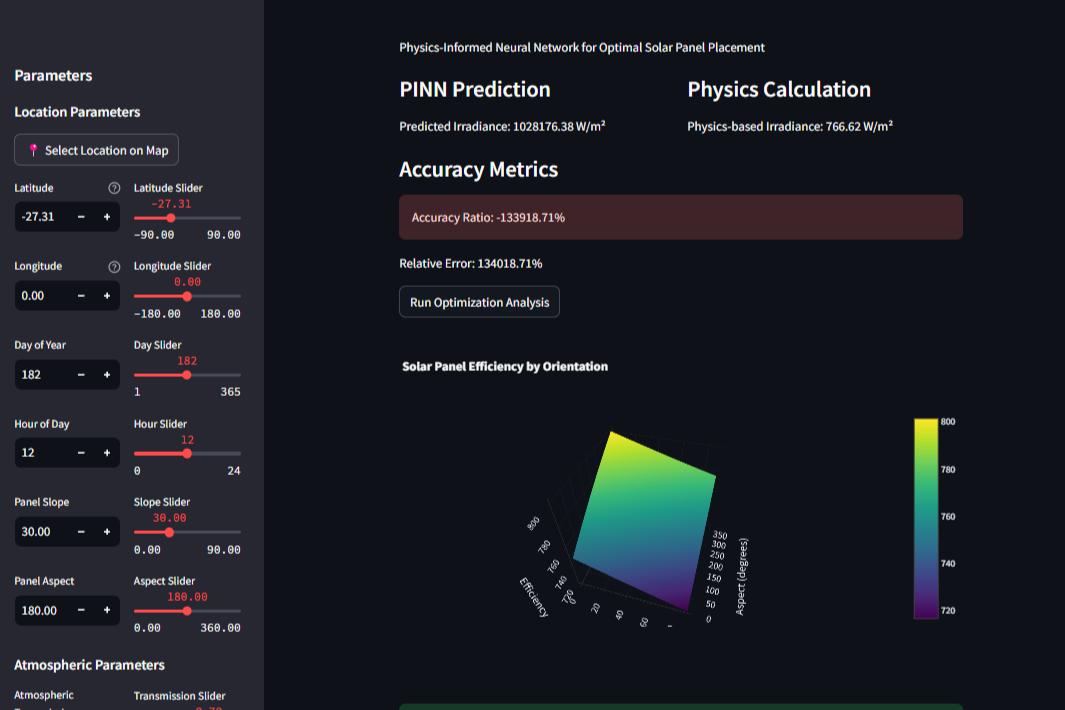
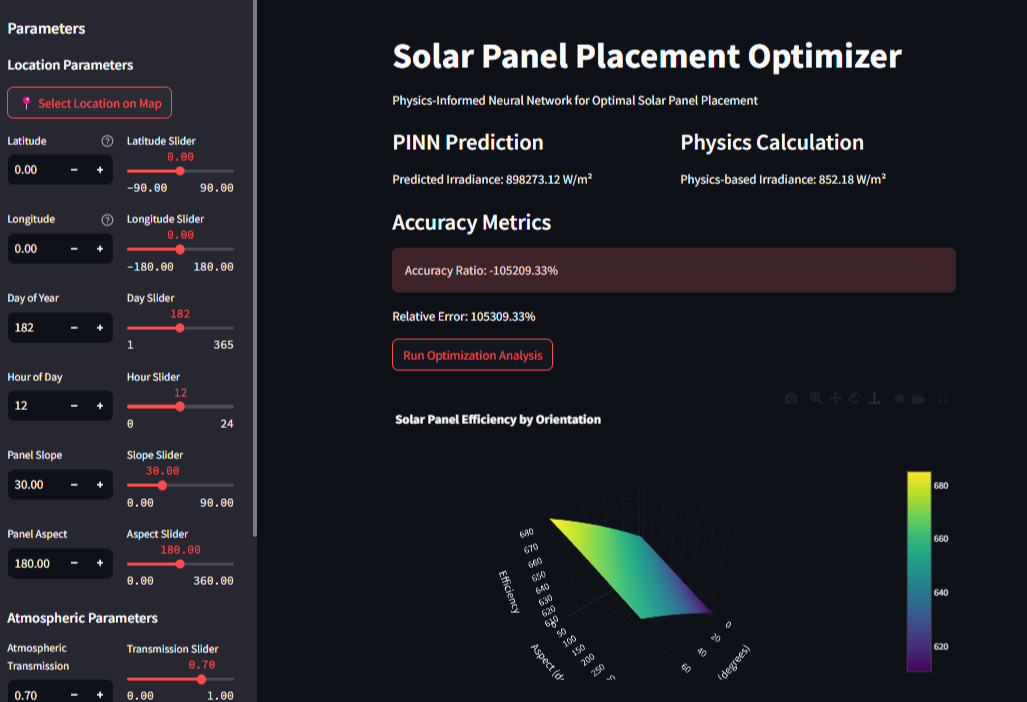
Agent query: Has the deviation between PINN predictions and physics-based calculations improved? Are the predictions more physically consistent now?

diff --git a/models/pinn_model.py b/models/pinn_model.py
@@ -150,54 +150,58 @@ class SolarPINN(nn.Module):
         # Get angles using normalized inputs
         cos_theta, cos_zenith = self.cos_incidence_angle(lat, lon, time, slope, aspect)
 
-        # Calculate normalized air mass with normalized constants
+        # Calculate normalized zenith angle
         zenith_angle = torch.acos(cos_zenith)
-        zenith_deg = torch.rad2deg(zenith_angle)
+        zenith_norm = torch.rad2deg(zenith_angle) / 90.0  # Normalize to [0, 1]
         
-        # Normalize air mass formula constants
+        # Calculate air mass with normalized zenith angle
         AM_CONST1 = 0.50572 / self.AIR_MASS_CHAR
         AM_CONST2 = 96.07995 / 90.0  # Normalize to angle range
         AM_CONST3 = -1.6364  # Dimensionless exponent
         
         air_mass = 1.0 / (cos_zenith + AM_CONST1 * 
-                         (AM_CONST2 * (90.0 - zenith_deg)).pow(AM_CONST3))
+                         (AM_CONST2 * (1.0 - zenith_norm) * 90.0).pow(AM_CONST3))
         normalized_air_mass = air_mass / self.AIR_MASS_CHAR
 
         # Simple day/night validation with normalized penalty
         nighttime_condition = (cos_zenith <= 0.001)
         y_pred_norm = y_pred / self.IRRADIANCE_CHAR  # Normalize predictions
-        night_penalty_factor = self.ZENITH_PENALTY_CHAR / self.EFFICIENCY_CHAR
+        night_penalty_factor = 1.0  # Normalized penalty factor
         nighttime_penalty = torch.where(
             nighttime_condition,
             torch.abs(y_pred_norm) * night_penalty_factor,
             torch.zeros_like(y_pred_norm)
         )
 
-        # Normalize atmospheric parameters
+        # Calculate theoretical irradiance in physical units first
         normalized_beta = self.beta / self.BETA_CHAR
         normalized_cloud = cloud_cover / self.CLOUD_CHAR
         
         # Calculate transmission with normalized values
         transmission = torch.exp(-normalized_beta * normalized_air_mass)
-        theoretical_irradiance = (self.solar_constant / self.IRRADIANCE_CHAR) * transmission * cos_theta
         
-        # Normalize cloud effect constants
-        CLOUD_COEF = 0.75 / self.CLOUD_CHAR
+        # Calculate in physical units first
+        theoretical_irradiance = self.solar_constant * transmission * cos_theta
+        
+        # Apply cloud effect
+        CLOUD_COEF = 0.75  # Physical coefficient
         CLOUD_EXP = 3.4  # Dimensionless exponent
         theoretical_irradiance = theoretical_irradiance * (1 - CLOUD_COEF * normalized_cloud ** CLOUD_EXP)
         
+        # Then normalize
+        theoretical_irradiance = theoretical_irradiance / self.IRRADIANCE_CHAR
+        
         # Physics residual based on normalized values
-        physics_penalty_factor = 50.0 / self.ZENITH_PENALTY_CHAR
+        physics_penalty_factor = 0.4  # Normalized penalty factor
         physics_residual = torch.where(
             theoretical_irradiance < 0.001,
             torch.abs(y_pred_norm) * physics_penalty_factor,
             (y_pred_norm - theoretical_irradiance)**2
         )
 
-        # Temperature effects with normalized coefficients
+        # Temperature effects with proper normalization
         normalized_temp = (20.0 - self.ref_temp) / self.TEMP_CHAR
-        temp_coef_norm = self.TEMP_COEF_CHAR / self.EFFICIENCY_CHAR
-        temp_effect = 1.0 - temp_coef_norm * (normalized_temp * self.TEMP_CHAR)
+        temp_effect = 1.0 - self.TEMP_COEF_CHAR * normalized_temp  # Keep in normalized form
         
         # Efficiency constraints with normalized bounds
         efficiency_norm = y_pred_norm / theoretical_irradiance.clamp(min=0.001)
@@ -206,13 +210,13 @@ class SolarPINN(nn.Module):
         efficiency_penalty = (
             torch.relu(EFF_MIN - efficiency_norm) + 
             torch.relu(efficiency_norm - EFF_MAX)
-        ) * (self.ZENITH_PENALTY_CHAR / self.EFFICIENCY_CHAR)
+        )
 
-        # Combine losses with normalized weights
+        # Combine losses with normalized weights that sum to 1.0
         total_residual = (
-            5.0 * physics_residual +
-            10.0 * nighttime_penalty +
-            2.0 * efficiency_penalty
+            0.4 * physics_residual +
+            0.4 * nighttime_penalty +
+            0.2 * efficiency_penalty
         )
 
         return torch.mean(total_residual)
@@ -227,7 +231,7 @@ class PINNTrainer:
         )
         self.mse_loss = nn.MSELoss()
         
-        # Loss weights
+        # Loss weights that sum to 1.0
         self.w_data = 0.3
         self.w_physics = 0.7
 
